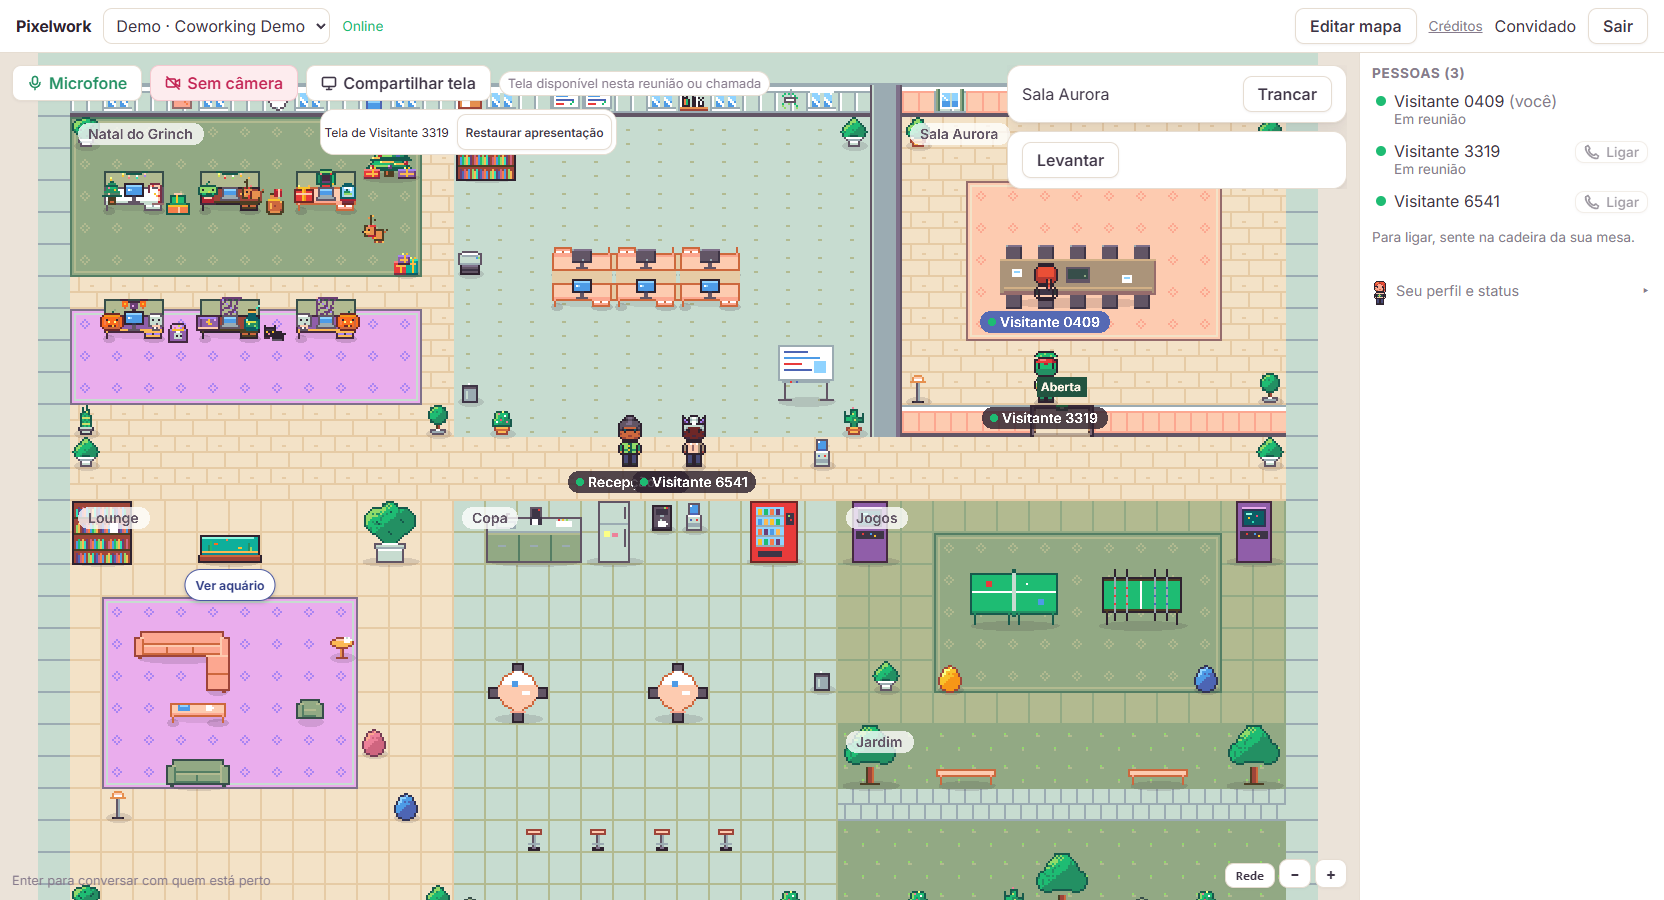
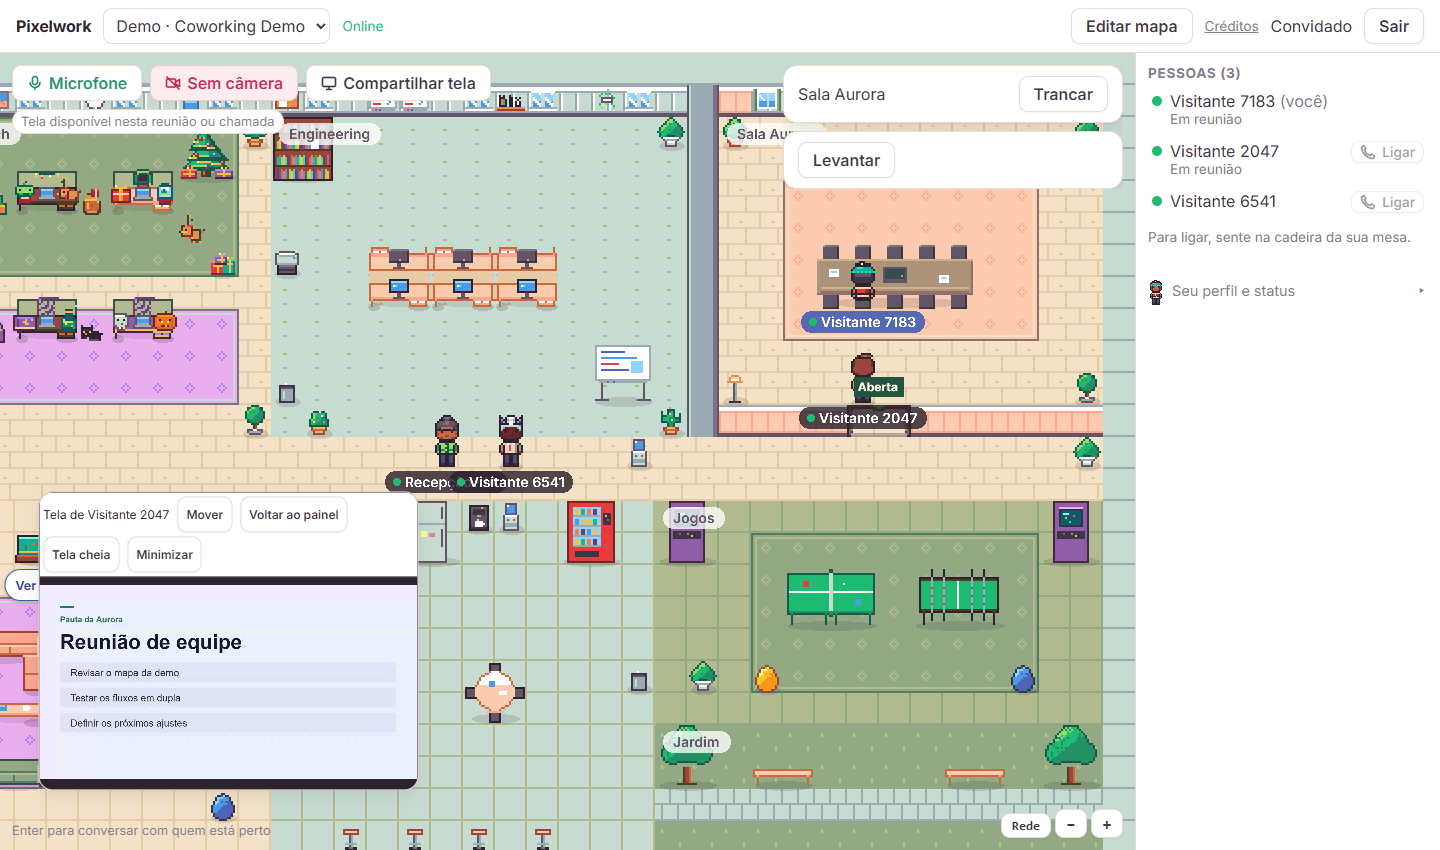
Mostra a apresentação flutuante na Sala Aurora (#64)

diff --git a/README.md b/README.md
@@ -38,7 +38,7 @@ Coworking virtual em pixel art 2D com voz e vídeo por proximidade, mapas person
 
 ### Compartilhamento de tela na Sala Aurora
 
-![Apresentação minimizada na visão de quem recebe na Sala Aurora, com o mapa visível e o botão Restaurar apresentação ao lado do nome de quem apresenta](docs/prints/compartilhamento-aurora.png)
+![Apresentação recebida na Sala Aurora em uma janela flutuante sobre o mapa, com o vídeo e o botão Mover visíveis](docs/prints/compartilhamento-aurora.png)
 
 [Como compartilhar a tela](#compartilhar-a-tela)
 
